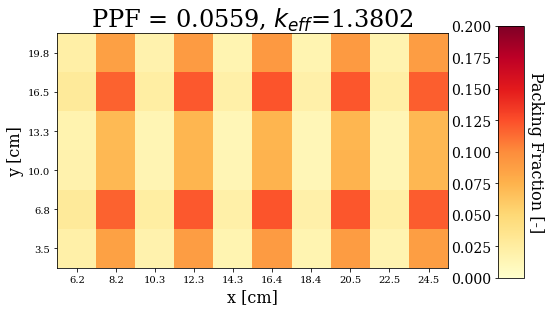
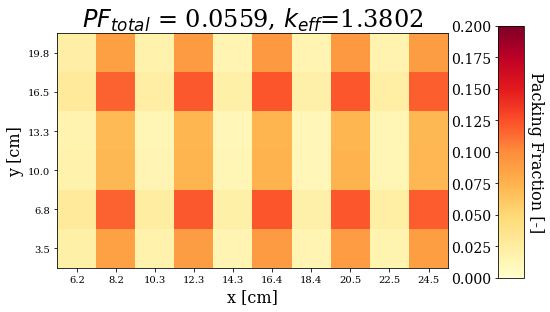
writing

Changed region(s): [[0.1545, 0.0288, 0.7727, 0.1154]]

diff --git a/docs/ahtr_rollo_assem_discussion.tex b/docs/ahtr_rollo_assem_discussion.tex
@@ -16,18 +16,19 @@ In Section \ref{sec:assem-1-obj-pf}'s simulation a-1a, I conducted a single-obje
 optimization simulation to minimize the one-third assembly's total fuel packing fraction 
 ($PF_{total}$) by varying $PF_{total}$ and TRISO distribution. 
 In simulation a-1a, \gls{ROLLO} found that an \gls{AHTR} one-third assembly model with 
-the most-minimized $PF_{total}$ has $PF_{total}= 0.0559$ and an oscillating TRISO distribution 
-along the x-axis (Figure \ref{fig:assem-obj-1-pf-final}).
+the most-minimized $PF_{total}$ has $PF_{total}= 0.0559$ an oscillating TRISO distribution 
+along the both the x-axis and y-axis, and a packing fraction standard deviation of 
+$0.04$ across the one-third assembly (Figure \ref{fig:assem-obj-1-pf-final}).
 
 Section \ref{sec:plank-discussion-pf} concluded that for the \gls{AHTR} plank model, 
 the minimize $PF_{total}$ objective is driven by maximizing the total fission reaction 
 rates. 
 I ran a simulation for constant $PF_{total} = 0.0559$ TRISO distribution and compared its 
-fission reaction rate with the oscillating TRISO distribution that most-minimized 
-$PF_{total}$. 
+fission reaction rate with simulation a-1a's oscillating TRISO distribution that 
+most-minimized $PF_{total}$. 
 Figure \ref{fig:assem-0.0559-comparison} shows the TRISO distributions for the two 
-compared simulations: Figure \ref{fig:assem-obj-1-pf-final}'s most-minimized $PF_{total}$ 
-and the constant $PF_{total} = 0.0559$. 
+compared reactor models: Figure \ref{fig:assem-obj-1-pf-final}'s most-minimized 
+$PF_{total}$ and the constant $PF_{total} = 0.0559$. 
 \begin{figure}[htbp!]
     \centering
     \includegraphics[width=0.49\linewidth]{assem-0.0559-most-minimized.png} 
